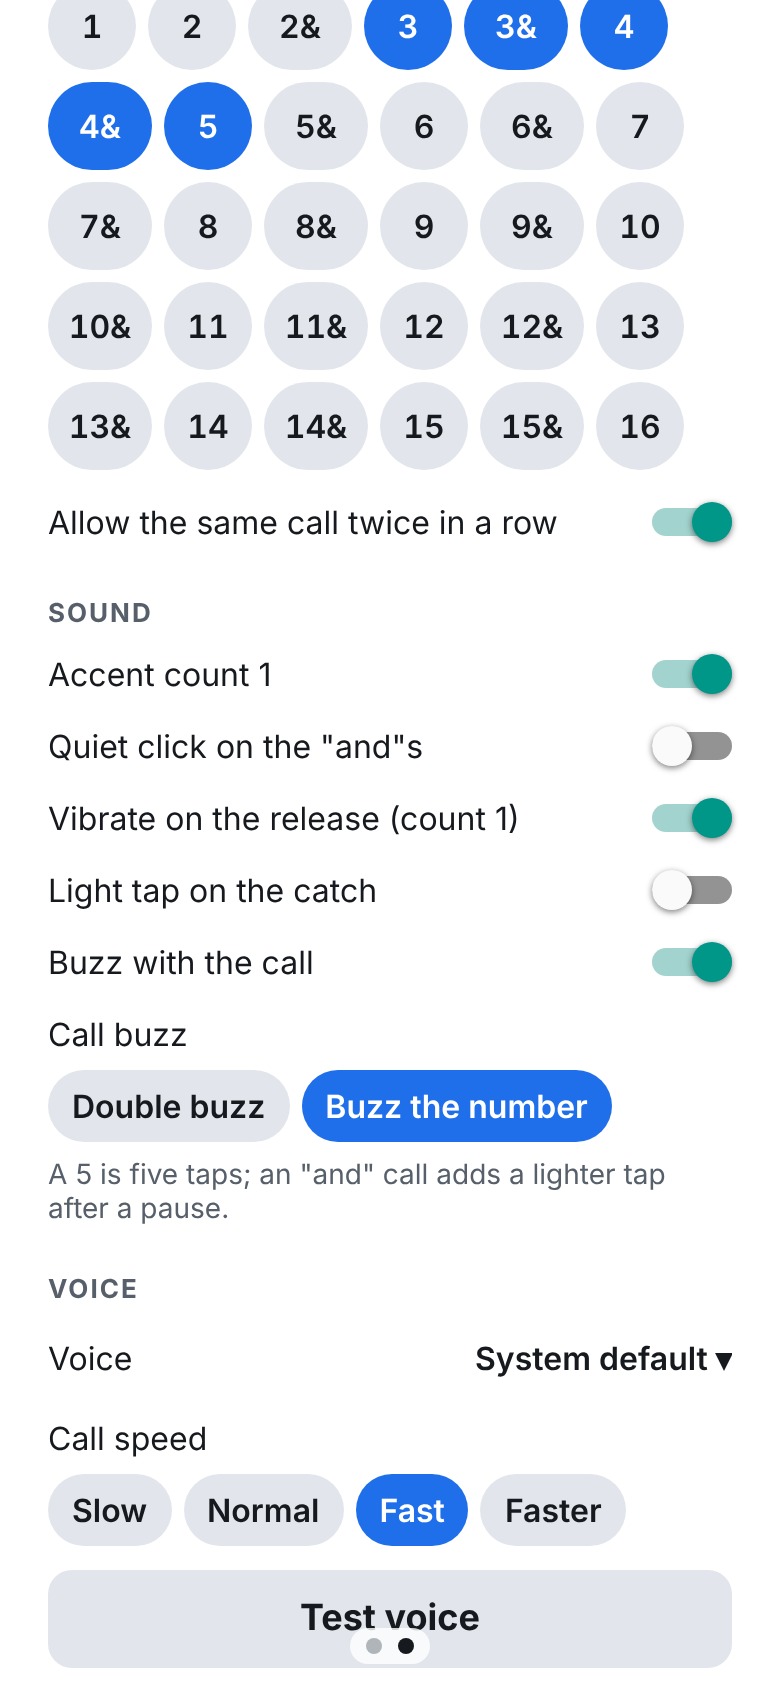
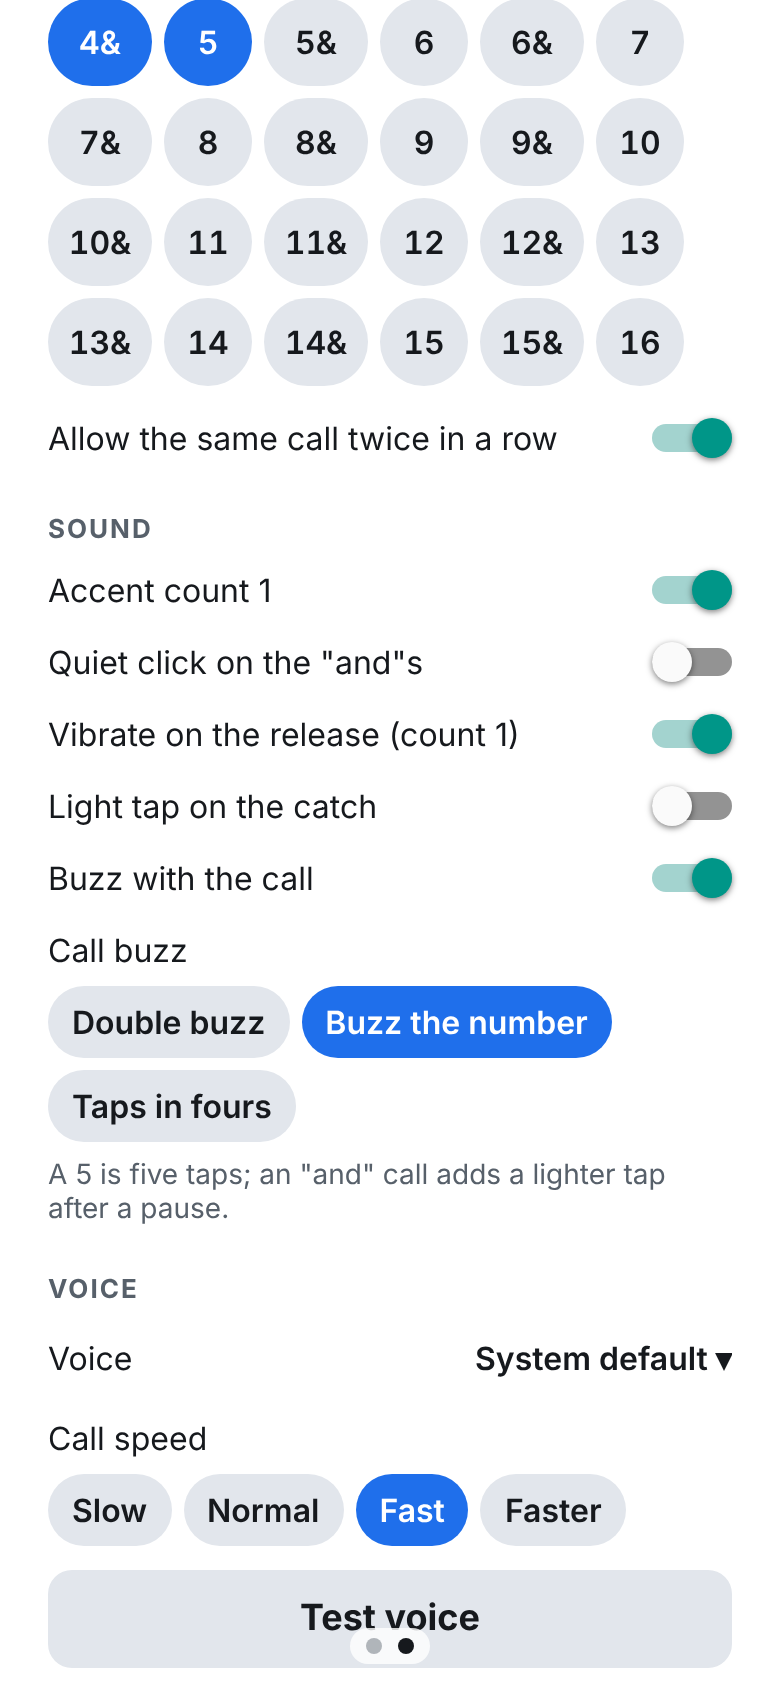
test(e2e): smoke-check and screenshot "Taps in fours"
The style is saved and its note explains the groups and the 12-count
limit. New screenshot 26-taps-in-fours in the README gallery; 23 and 25
refreshed for the third chip.

Claude-Session: https://claude.ai/code/session_01UV53BHK7T7wyeLb2NXaVza

diff --git a/e2e/smoke.js b/e2e/smoke.js
@@ -369,6 +369,24 @@ async function main() {
       /over 8 counts get the double buzz/.test(buzzNote),
       buzzNote,
     );
+    await page.getByRole('radio', { name: /^Taps in fours/ }).click();
+    const savedGrouped = await page
+      .waitForFunction(
+        () =>
+          JSON.parse(localStorage.getItem('guardrr.settings') ?? '{}').cue?.callHapticStyle ===
+          'grouped',
+        null,
+        { timeout: 3000 },
+      )
+      .then(() => true)
+      .catch(() => false);
+    check('"Taps in fours" is saved', savedGrouped);
+    const groupedNote = (await page.getByTestId('call-buzz-note').textContent()) ?? '';
+    check(
+      '"Taps in fours" explains the groups and its 12-count limit',
+      /four taps, a pause, then three/.test(groupedNote) && !/over 8 counts/.test(groupedNote),
+      groupedNote,
+    );
     await page.getByRole('radio', { name: /^Double buzz/ }).click();
     check(
       'the double buzz needs no note',

diff --git a/scripts/screenshots.js b/scripts/screenshots.js
@@ -228,6 +228,9 @@ async function main() {
     await page.getByRole('radio', { name: /^Buzz the number/ }).click();
     await page.waitForTimeout(200);
     await shot(page, '25-buzz-the-number');
+    await page.getByRole('radio', { name: /^Taps in fours/ }).click();
+    await page.waitForTimeout(200);
+    await shot(page, '26-taps-in-fours');
     await page.getByRole('radio', { name: /^Double buzz/ }).click();
     await page.getByRole('switch', { name: 'Buzz with the call' }).click();
 

diff --git a/README.md b/README.md
@@ -103,9 +103,9 @@ practice screen is Chromium's fake camera; on the phone it's you.
 | ---------------------------------------------------------------------------------------------------------------- | ---------------------------------------------------------------------------------------------------------------- | ----------------------------------------------------------------------------------- | ------------------------------------------------------------------------------------------------------ |
 | ![Tapping the 5 under "Dropped most" in Quads 155 lists its one session](docs/screenshots/21-dropped-detail.png) | ![Tapping a call in "Last session" lists every session it came up in](docs/screenshots/22-stats-call-detail.png) | ![Settings → Sound with "Buzz with the call" on](docs/screenshots/23-call-buzz.png) | ![Settings → Appearance set to Dark while the phone is light](docs/screenshots/24-appearance-dark.png) |
 
-| Buzz the number                                                                                  |
-| ------------------------------------------------------------------------------------------------ |
-| ![Call buzz set to "Buzz the number": a 5 is five taps](docs/screenshots/25-buzz-the-number.png) |
+| Buzz the number                                                                                  | Taps in fours                                                                                                |
+| ------------------------------------------------------------------------------------------------ | ------------------------------------------------------------------------------------------------------------ |
+| ![Call buzz set to "Buzz the number": a 5 is five taps](docs/screenshots/25-buzz-the-number.png) | ![Call buzz set to "Taps in fours": a 7 is four taps, a pause, three](docs/screenshots/26-taps-in-fours.png) |
 
 ## Tech
 
